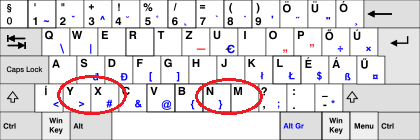
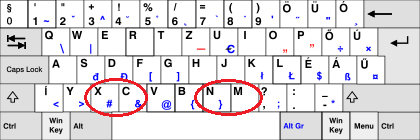
key mapping
* updated response map to include fingers in between-block instructions

* reminders show between blocks

* updated stroop HUN keyboard image

Changed region(s): [[0.1238, 0.5143, 0.3714, 0.8571], [0.4643, 0.6857, 0.619, 0.8286], [0.4952, 0.5429, 0.619, 0.6286]]

diff --git a/src/misc.js b/src/misc.js
@@ -28,20 +28,44 @@ function setFullScreen(enter = true) {
     }
 }
 
+function getKeyFinger(k) {
+    switch(k) {
+        case 'x':
+        case 'f':
+        case 'ArrowLeft':
+            return S('g_f_left_middle');
+        case 'c':
+        case 'g':
+        case 'ArrowRight':
+            return S('g_f_left_index');
+        case 'n':
+        case 'ArrowDown':
+            return S('g_f_right_index');
+        case 'j':
+        case 'm':
+        case 'ArrowUp':
+            return S('g_f_right_middle');
+    }
+
+    return "unknown";
+}
+
 /**
  * Return a string explaining the response map
  * @param {object} m
+ * @param [fingerMap=true] {boolean} whether to show finger-key mapping
  * @return {string}
  */
-function responseMapToHTML(m) {
-    let out = "<p class='response-map'>";
-    let first = true;
+function responseMapToHTML(m, fingerMap = true) {
+    let out = "";
 
     // Keys in the order they should be displayed
     const keys = [
         'z', 'x', 'c', 'f', 'g', 'n', 'm', 'j', 'k',
         'ArrowLeft', 'ArrowRight', 'ArrowUp', 'ArrowDown'
     ];
+
+    let map = [];
 
     for(let i = 0; i < keys.length; i++) {
         let x = null;
@@ -51,19 +75,37 @@ function responseMapToHTML(m) {
                 break;
             }
         }
+
         if(x !== null) {
-            if(!first)
-                out += "; ";
-            else
-                first = false;
-
-            out += "<kbd>" + KI(K(keys[i])) +
-                "</kbd> = <span class='response-stim'>" + S(x) + "</span>";
+            map.push([
+                "<span>" + getKeyFinger(keys[i]) + "</span>",
+                "<kbd>" + KI(K(keys[i])) + "</kbd>",
+                "<span class='response-stim'>" + S(x) + "</span>"
+            ]);
         }
-
     }
 
-    return out + "</p>";
+    if(fingerMap) {
+        let rows = [];
+        map.forEach((r) => rows.push(
+            "<div><div>" + r[0] +
+            "</div><div>" + r[1] +
+            "</div><div>" + r[2] +
+            "</div></div>"
+        ));
+        out = "<div class='response-table'>" +
+            "<div class='labels'>" +
+            "<div>" + S('g_g_finger') + "</div>" +
+            "<div>" + S('g_g_response') + "</div>" +
+            "<div>" + S('g_g_stimulus') + "</div>" +
+            "</div>" + rows.join("") + "</div>";
+    } else {
+        let rows = [];
+        map.forEach((x) => rows.push(x[1] + " = " + x[2]));
+        out = "<p class='response-map'>" + rows.join("; ") + "</p>";
+    }
+
+    return out;
 }
 
 /**

diff --git a/index.html b/index.html
@@ -232,16 +232,18 @@
         </div>
         <div id="Practice" class="instructions hidden">
             <h1>S::g_p_title</h1>
-            <div id="PracticeResponseMap"></div>
+            <div class="practice-response-map"></div>
             <button onclick="runExperiment()">S::g_g_practice</button>
         </div>
         <div id="BlockBreak" class="instructions hidden">
             <h1>S::g_g_block_end</h1>
             <p>S::g_g_block_break</p>
+            <div class="practice-response-map"></div>
             <button onclick="runTrial()">S::g_g_continue</button>
         </div>
         <div id="EndPractice" class="instructions hidden">
             <h1>S::g_p_end</h1>
+            <div class="practice-response-map"></div>
             <button onclick="runTrial()">S::g_g_continue</button>
         </div>
         <div id="Experiment" class="hidden">

diff --git a/src/core.js b/src/core.js
@@ -66,7 +66,7 @@ function setupExperiment() {
 function practiceInstructions() {
     // Show the practice dialogue
     showDiv('Practice');
-    document.querySelector('#PracticeResponseMap').innerHTML = responseMapToHTML(X.cfg.getResponseMap());
+    document.querySelectorAll('.practice-response-map').forEach(elm => elm.innerHTML = responseMapToHTML(X.cfg.getResponseMap()));
 }
 
 function runExperiment() {
@@ -77,7 +77,7 @@ function runExperiment() {
         countDown(1, document.querySelector('#Stimulus'), runTrial);
     else
         countDown(5, document.querySelector('#Stimulus'), runTrial,
-            responseMapToHTML(X.cfg.getResponseMap()));
+            responseMapToHTML(X.cfg.getResponseMap(), false));
 }
 
 function runTrial() {

diff --git a/style/main.css b/style/main.css
@@ -135,6 +135,7 @@ option[value="blank"] {
     vertical-align: middle;
 }
 
+.response-table kbd,
 .response-map kbd {
     font-size: 0.6em;
 }
@@ -160,6 +161,9 @@ option[value="blank"] {
     padding: .2em;
     text-transform: none;
 }
+.practice-response-map .response-table > div > div:nth-of-type(1n+2) {
+    text-align: center;
+}
 .response-table > div > div:last-of-type {
     text-transform: capitalize;
 }
@@ -173,7 +177,7 @@ textarea {
     margin: 0;
 }
 
-#PracticeResponseMap {
+.practice-response-map {
     font-size: 36px;
 }
 

diff --git a/src/config.js b/src/config.js
@@ -20,7 +20,7 @@ const sharedCFG = {
             else
                 stimDiv.innerHTML = S('g_r_incorrect').toUpperCase();
 
-            stimDiv.innerHTML += "<br/>" + responseMapToHTML(X.responseMap);
+            stimDiv.innerHTML += "<br/>" + responseMapToHTML(X.responseMap, false);
             return X.cfg.trainingInterTrialInterval;
         }
 
